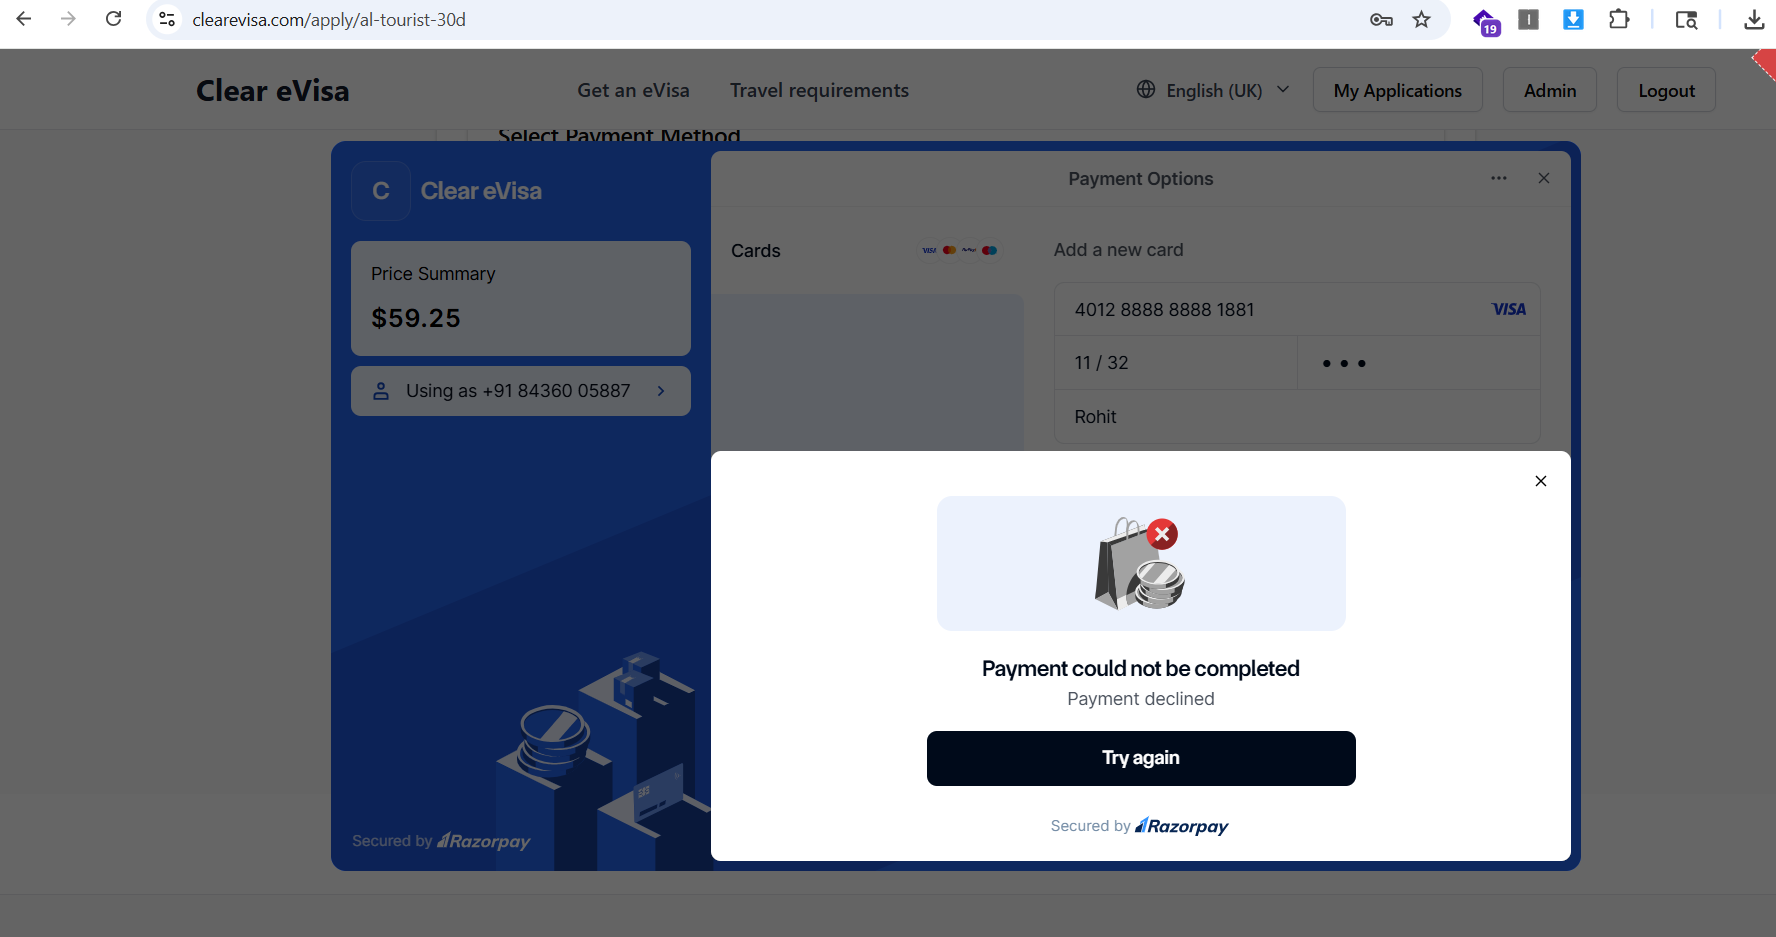
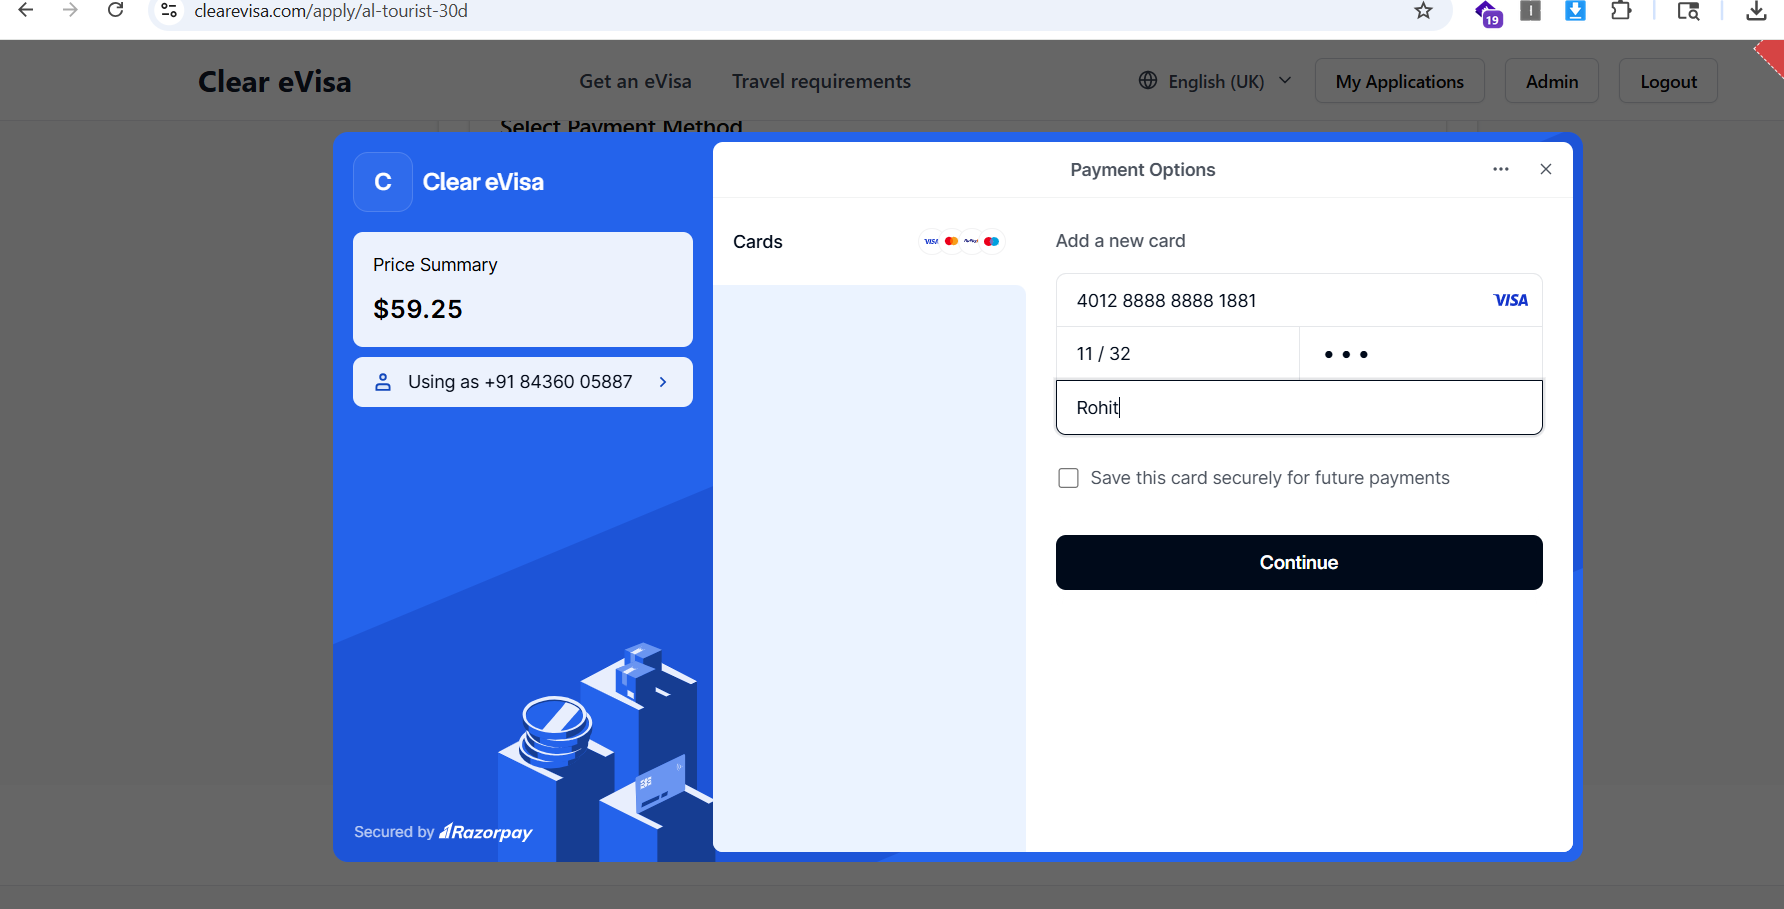
minor fix

diff --git a/frontend/src/components/application-steps/Step7References.jsx b/frontend/src/components/application-steps/Step7References.jsx
@@ -75,6 +75,17 @@ const Step7References = ({ data, onNext, onBack, onDataChange }) => {
     onNext(formData);
   };
 
+  const isFormValid = () => {
+    return (
+      formData.indiaReferenceName?.trim() &&
+      formData.indiaReferenceAddress?.trim() &&
+      formData.indiaReferencePhoneNumber?.trim() &&
+      formData.homeReferenceName?.trim() &&
+      formData.homeReferenceAddress?.trim() &&
+      formData.homeReferencePhoneNumber?.trim()
+    );
+  };
+
   if (loading) {
     return <div className="flex justify-center p-8">{t('common.loading')}</div>;
   }
@@ -202,7 +213,11 @@ const Step7References = ({ data, onNext, onBack, onDataChange }) => {
           <ChevronLeft className="w-4 h-4 mr-2" />
           {t('application.back')}
         </Button>
-        <Button type="submit" className="bg-primary hover:bg-primary/90 text-white">
+        <Button           
+          type="submit" 
+          disabled={!formData.indiaReferenceName?.trim() || !formData.indiaReferenceAddress?.trim() || !formData.indiaReferencePhoneNumber?.trim() || !formData.homeReferenceName?.trim() || !formData.homeReferenceAddress?.trim() || !formData.homeReferencePhoneNumber?.trim()}
+          className={`${(formData.indiaReferenceName?.trim() && formData.indiaReferenceAddress?.trim() && formData.indiaReferencePhoneNumber?.trim() && formData.homeReferenceName?.trim() && formData.homeReferenceAddress?.trim() && formData.homeReferencePhoneNumber?.trim()) ? 'bg-primary hover:bg-primary/90' : 'bg-gray-300 hover:bg-gray-300'} text-white`}
+        >
           {t('application.continue')}
         </Button>
       </div>

diff --git a/frontend/src/index.css b/frontend/src/index.css
@@ -25,19 +25,19 @@ code {
         --card-foreground: 0 0% 3.9%;
         --popover: 0 0% 100%;
         --popover-foreground: 0 0% 3.9%;
-        --primary: 327 100% 50%;
+        --primary: 200 100% 36%;
         --primary-foreground: 0 0% 98%;
         --secondary: 0 0% 96.1%;
         --secondary-foreground: 0 0% 9%;
         --muted: 0 0% 96.1%;
         --muted-foreground: 0 0% 45.1%;
-        --accent: 327 100% 50%;
+        --accent: 200 100% 36%;
         --accent-foreground: 0 0% 98%;
         --destructive: 0 84.2% 60.2%;
         --destructive-foreground: 0 0% 98%;
         --border: 0 0% 89.8%;
         --input: 0 0% 89.8%;
-        --ring: 327 100% 50%;
+        --ring: 200 100% 36%;
         --chart-1: 12 76% 61%;
         --chart-2: 173 58% 39%;
         --chart-3: 197 37% 24%;
